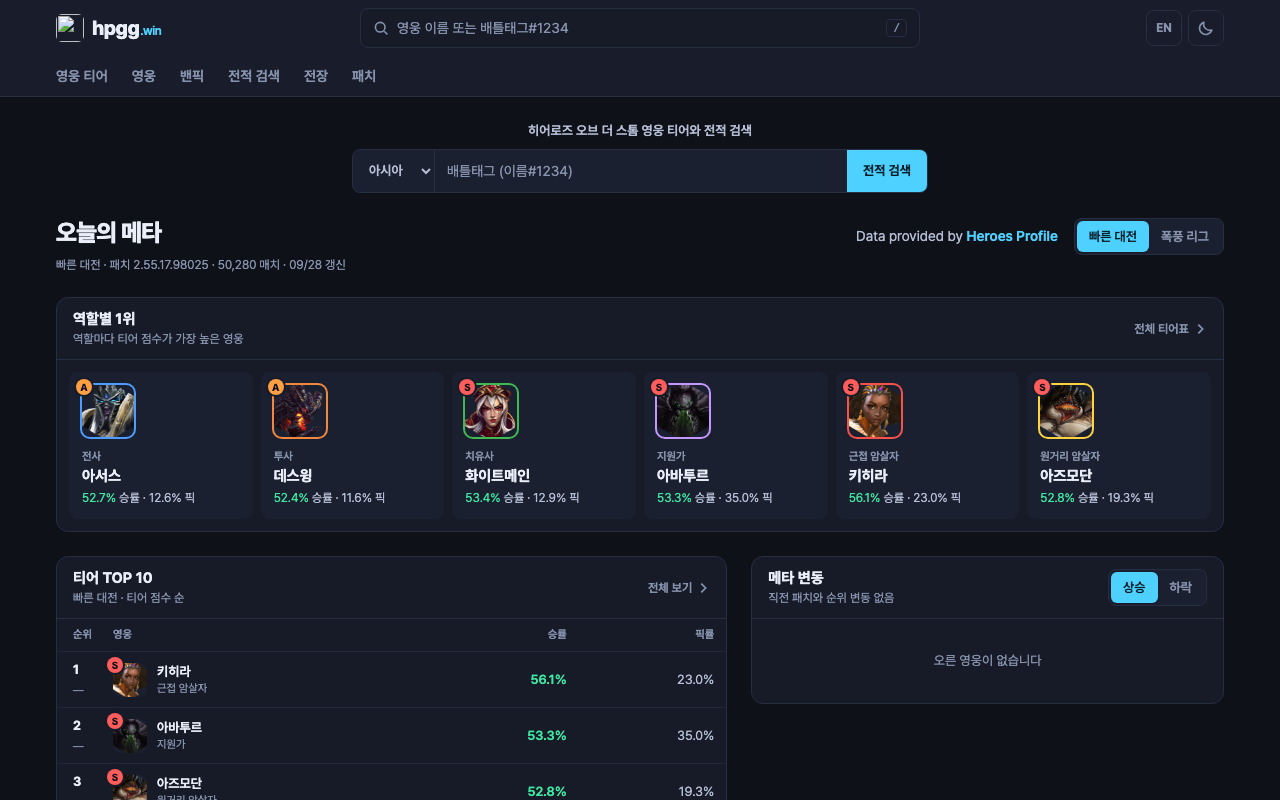
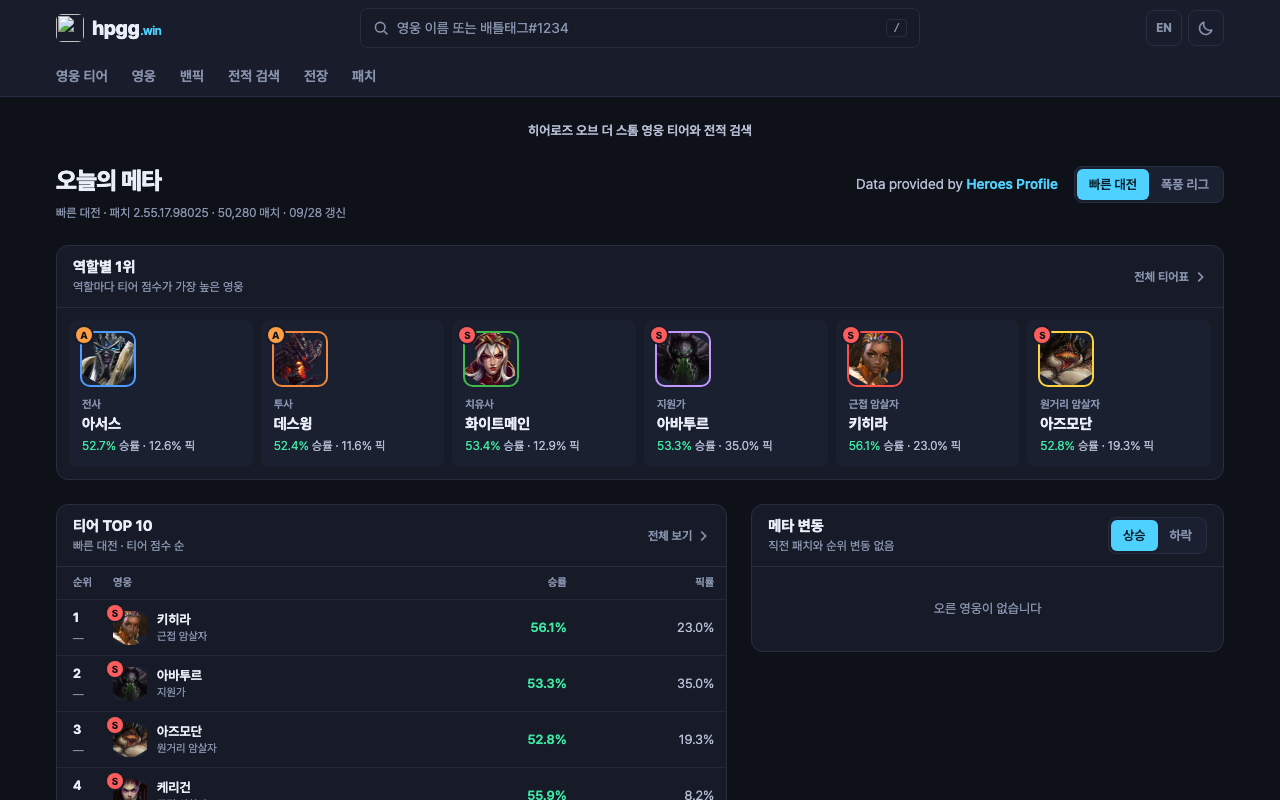
feat(home): 홈의 전적 검색창 제거 — 헤더 통합 검색과 겹침 (오너 10-30)
- 배틀태그 검색은 헤더 검색창이 맡는다 (B안)
- 한 줄 소개는 그대로, 오늘의 메타가 바로 아래
- e2e: 홈 검색창을 쓰던 테스트를 헤더 검색 기준으로 바꿈

diff --git a/web/e2e/home.spec.ts b/web/e2e/home.spec.ts
@@ -22,13 +22,14 @@ test("home: role leaders, top 10, movers, map cards and the mode toggle", async 
   await expect(page.locator('#role-top [data-card="role"]').first()).toHaveAttribute("href", /\?mode=sl$/);
 });
 
-test("home: one compact player-search row on top, today's meta right under it", async ({ page }) => {
+test("home: one search on the page — the header's, which takes BattleTags; today's meta right under the tagline", async ({ page }) => {
+  // owner 2026-10-30: with the header's unified search (B안), 홈's own player-search box was a second copy
   await page.goto("./");
   await expect(page.locator("#hero-search")).toHaveCount(0);
-  const box = (await page.locator("#home-player-search").boundingBox())!;
-  expect(box.height).toBeLessThan(60); // one row, not a banner
+  await expect(page.locator("#home-player-search")).toHaveCount(0);
+  await expect(page.locator("#site-search")).toHaveCount(1);
   const top = (await page.locator("#meta-line").boundingBox())!.y;
-  expect(top).toBeLessThan(330); // still above the fold on a phone
+  expect(top).toBeLessThan(330); // above the fold on a phone
 });
 
 test("home: ?mode=sl in the URL opens Storm League", async ({ page }) => {
@@ -88,12 +89,12 @@ test("footer links go only to the site, the contact address and the data source 
   }
 });
 
-test("홈 says what the site is in one short line, above the player search (#30)", async ({ page }) => {
+test("홈 says what the site is in one short line, above today's meta (#30)", async ({ page }) => {
   await page.goto("./");
   const line = page.locator("#site-tagline");
   await expect(line).toHaveText("히어로즈 오브 더 스톰 영웅 티어와 전적 검색");
   const box = (await line.boundingBox())!;
-  expect(box.y + box.height).toBeLessThanOrEqual((await page.locator("#home-player-search").boundingBox())!.y); // above it, not over it
+  expect(box.y + box.height).toBeLessThanOrEqual((await page.locator("#meta-line").boundingBox())!.y); // above it, not over it
   await page.goto("/en/hots/");
   await expect(page.locator("#site-tagline")).toHaveText("Heroes of the Storm hero tiers and player search");
 });

diff --git a/web/src/components/home/HomeView.tsx b/web/src/components/home/HomeView.tsx
@@ -6,7 +6,6 @@ import { useLocale, useT } from "@/i18n/client";
 import type { HomeModel, MapCard, Mover, TopRow } from "@/lib/home";
 import { MapCardLink } from "../MapCardLink";
 import { PageHead } from "@/components/PageHead";
-import { PlayerSearchForm } from "../players/PlayerSearchForm";
 import { Card, CardHeader, cx, MoreLink, Portrait, RankDelta, Segmented } from "../ui";
 
 const pct = (n: number) => `${n.toFixed(1)}%`;
@@ -29,13 +28,10 @@ export function HomeView({ models, maps }: { models: Record<Mode, HomeModel>; ma
   return (
     <>
       <main className="page-x mt-6 space-y-6">
-        <div className="space-y-2">
-          {/* what the site is, for a first visit (#30) */}
-          <p id="site-tagline" className="text-center text-[13px] font-semibold text-fg-2">
-            {t.home.tagline}
-          </p>
-          <PlayerSearchForm id="home-player-search" className="mx-auto max-w-xl" />
-        </div>
+        {/* what the site is, for a first visit (#30). The player search is the header's (owner 2026-10-30). */}
+        <p id="site-tagline" className="text-center text-[13px] font-semibold text-fg-2">
+          {t.home.tagline}
+        </p>
         <PageHead
           title={t.home.title}
           aside={

diff --git a/web/e2e/players.spec.ts b/web/e2e/players.spec.ts
@@ -176,13 +176,12 @@ test("players: a malformed BattleTag is caught before any request", async ({ pag
   await expect(page.locator("#player-result")).toHaveAttribute("data-state", "idle");
 });
 
-test("home: the search box at the top opens 전적 검색 with the query", async ({ page }) => {
-  await mockApi(page, (route) => json(route, 200, fixture));
+test("home: a BattleTag in the header's search opens 전적 검색 with the query (홈's own box is gone, owner 2026-10-30)", async ({ page }) => {
+  await mockApi(page, (route, url) => json(route, 200, url.pathname.endsWith("/season") ? season : fixture));
   await page.goto("./");
-  await page.locator("#home-player-search-region").selectOption("NA");
-  await page.locator("#home-player-search-tag").fill("Zemill#1940");
-  await page.locator("#home-player-search button[type=submit]").click();
-  await expect(page).toHaveURL(/\/ko\/hots\/players\/\?tag=Zemill%231940&region=NA$/);
+  await page.locator("#site-search").fill("Zemill#1940");
+  await page.locator("#site-search").press("Enter");
+  await expect(page).toHaveURL(/\/ko\/hots\/players\/\?tag=Zemill%231940&region=KR$/);
   await expect(page.locator("#player-result")).toHaveAttribute("data-state", "ok");
 });
 

diff --git a/web/e2e/region.spec.ts b/web/e2e/region.spec.ts
@@ -13,11 +13,12 @@ test.beforeEach(async ({ page }) => {
 test.describe("a visitor in Europe", () => {
   test.use({ timezoneId: "Europe/Berlin" });
 
-  test("starts on EU, on the English and the Korean page, and on 홈's search box", async ({ page }) => {
+  // 홈's own search box is gone (owner 2026-10-30); the header's search starting on EU is in header.spec.ts
+  test("starts on EU, on the English and the Korean page", async ({ page }) => {
     await page.goto("/en/hots/players/");
     await expect(page.locator("#player-search-region")).toHaveValue("EU");
-    await page.goto("/ko/hots/");
-    await expect(page.locator("#home-player-search-region")).toHaveValue("EU");
+    await page.goto("/ko/hots/players/");
+    await expect(page.locator("#player-search-region")).toHaveValue("EU");
   });
 
   test("a region chosen before wins over the time zone", async ({ page }) => {
